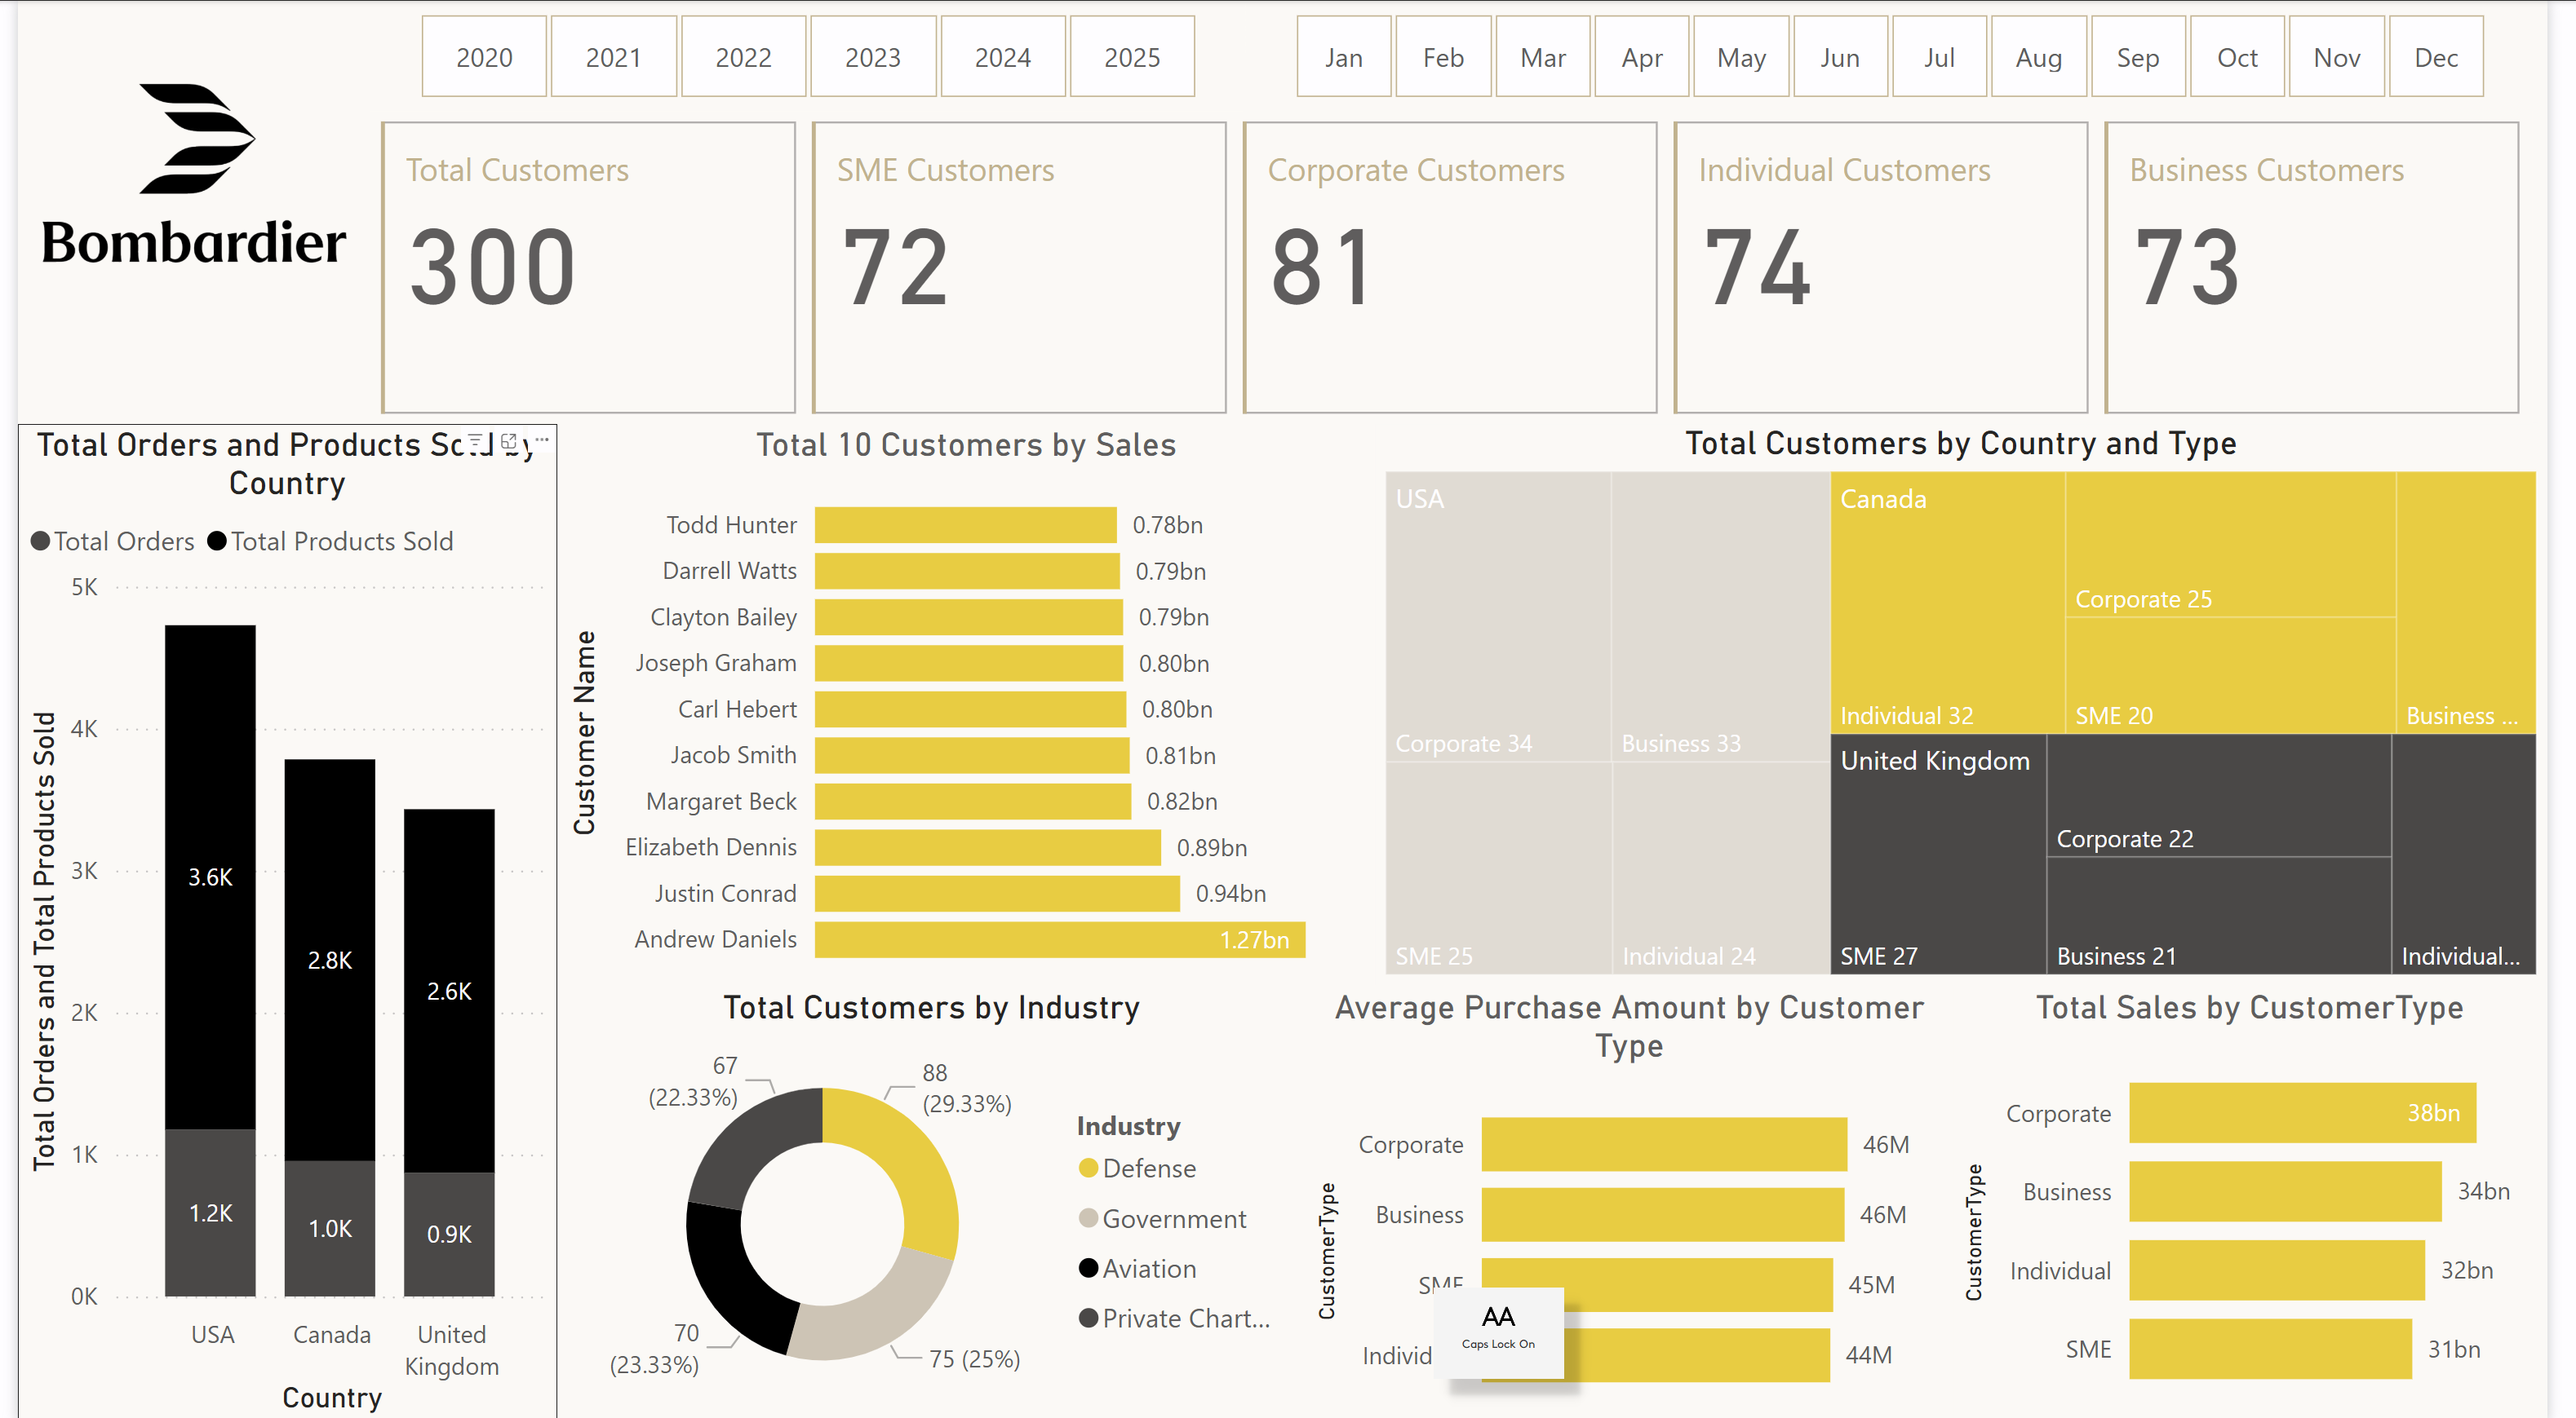
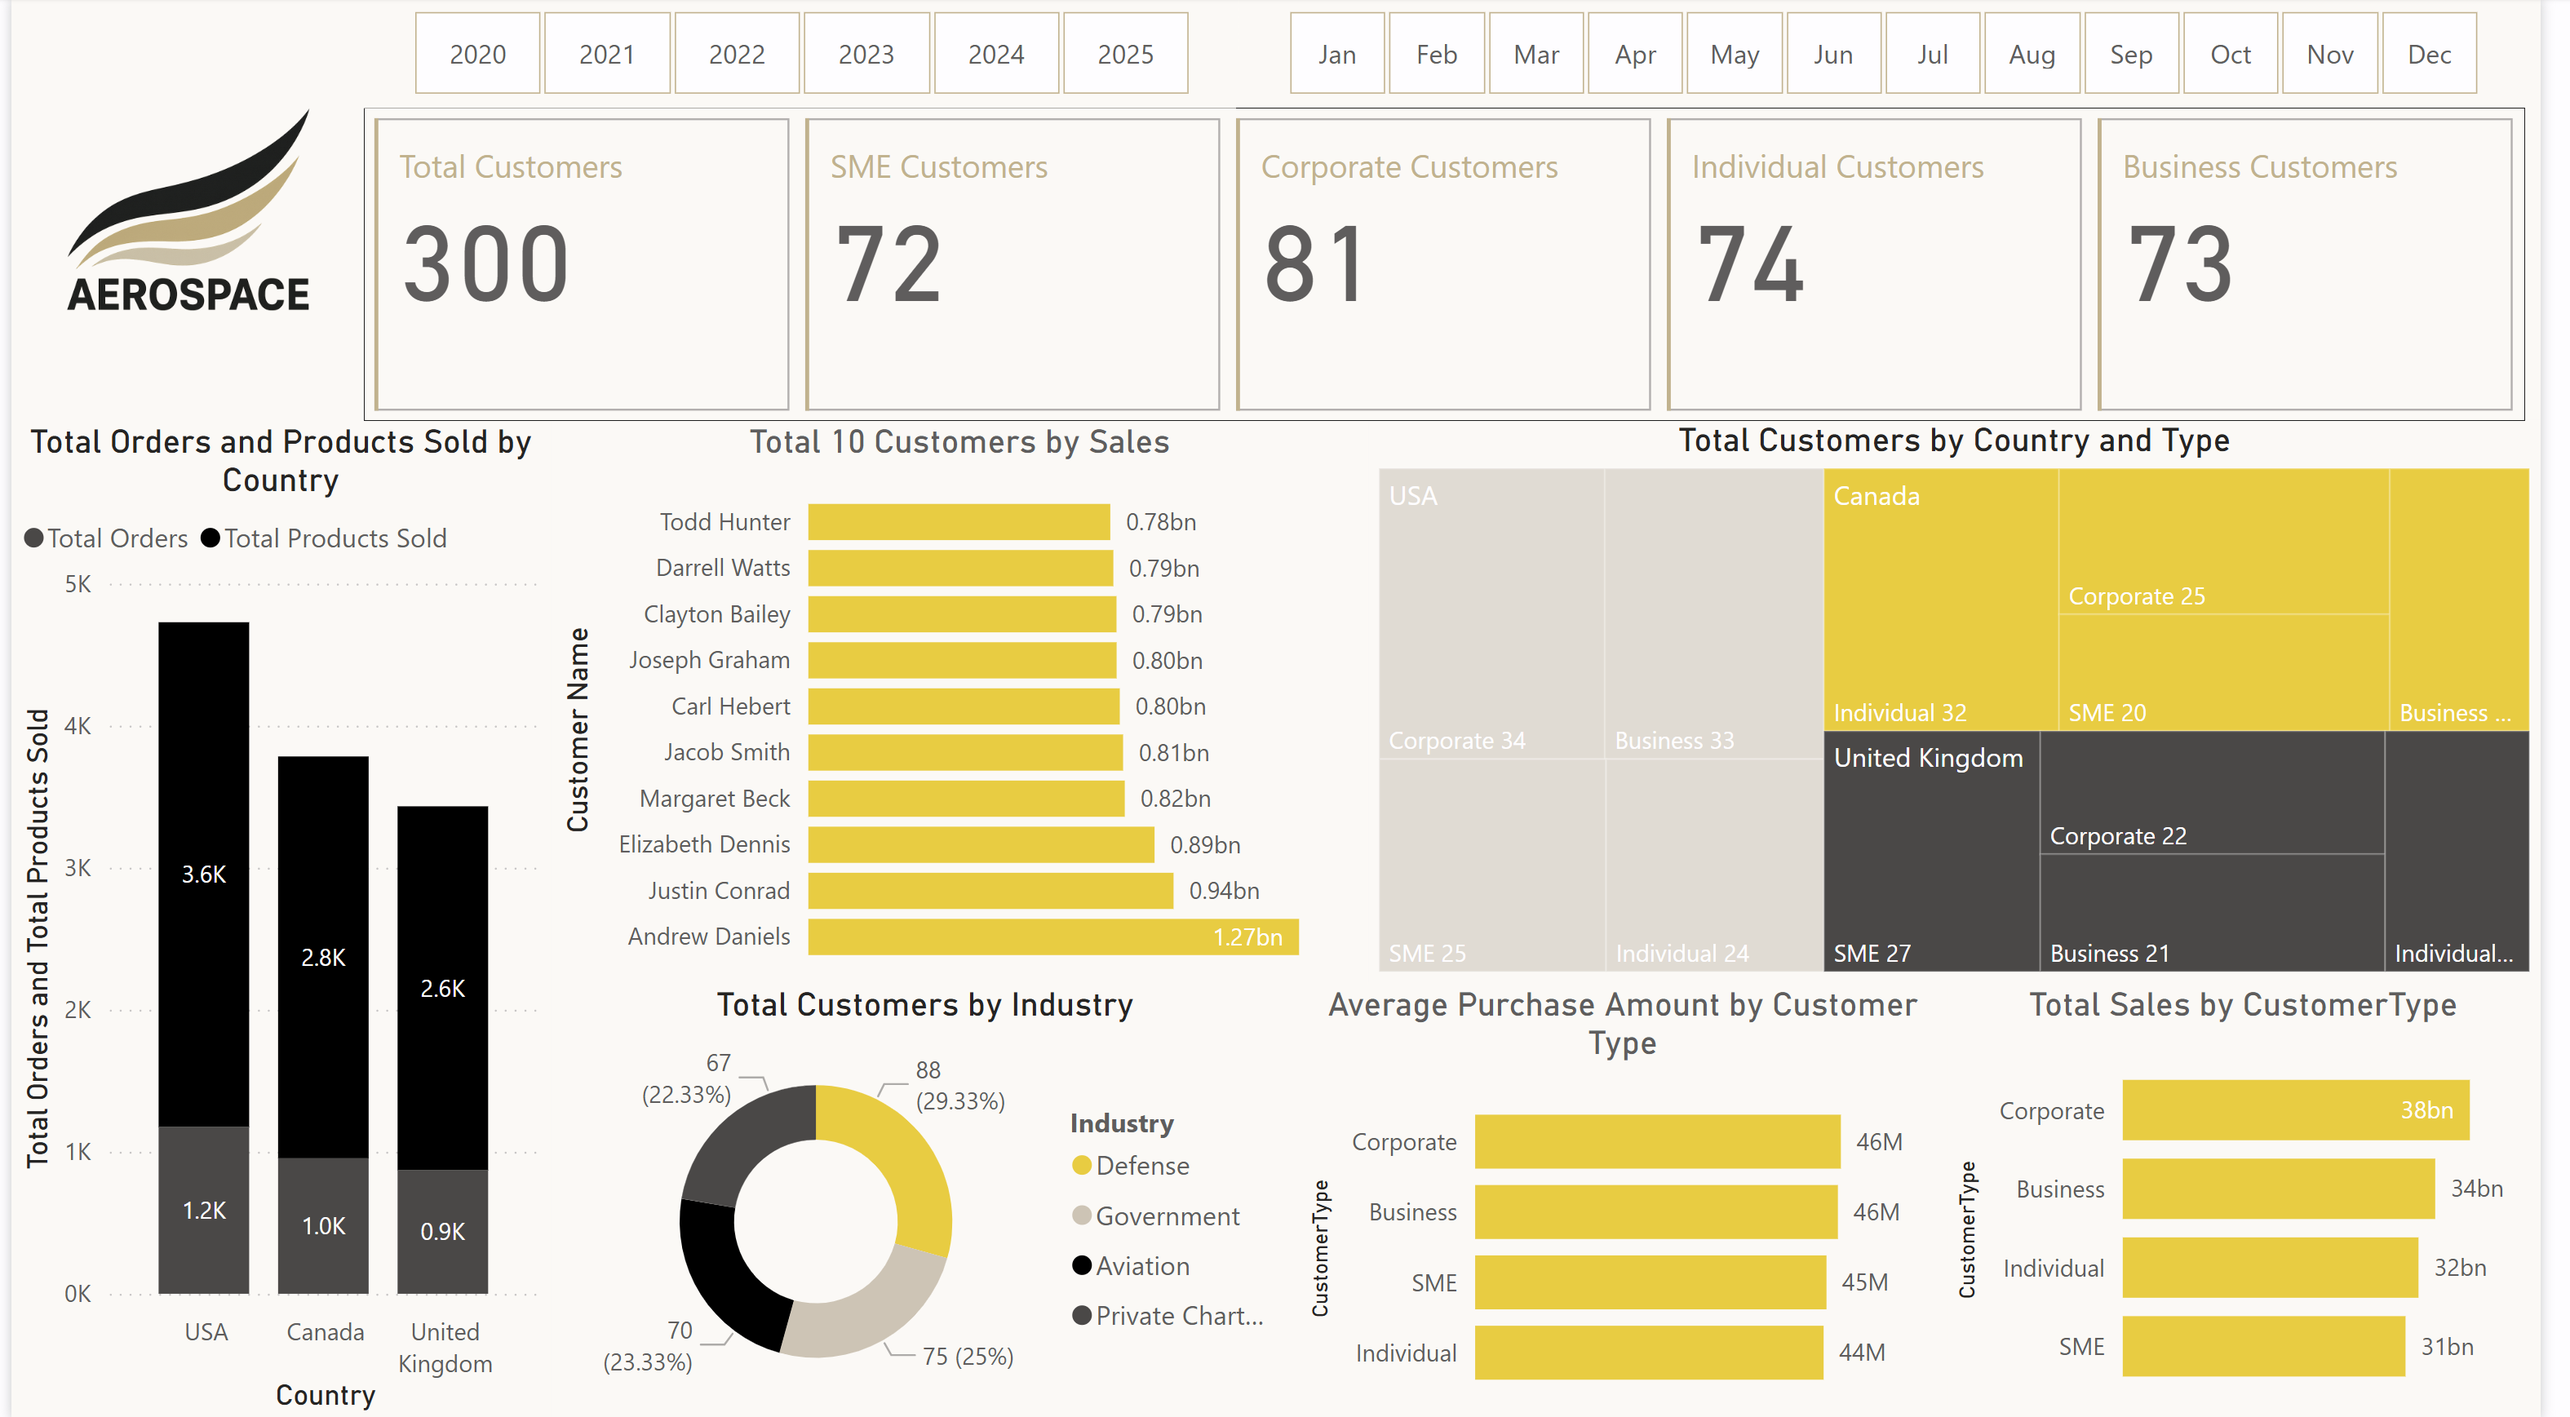
Initial commit: Addeed Corret Readme

diff --git a/README.md b/README.md
@@ -1,126 +1,129 @@
-# Enhanced and corrected README with user's real file and task names
-final_readme = """
-# 🛒 CSV to GCP Retail ETL Project
+🚀 Aerospace Power BI Dashboard (Fictitious Data)
 
-This project demonstrates a complete ETL pipeline built using Apache Airflow, Google Cloud Platform (GCP), dbt, and Soda Core. It ingests raw CSV data into Google Cloud Storage, loads it into BigQuery, transforms it into a star schema using dbt, and validates both raw and transformed data using Soda.
+This project showcases an interactive Power BI dashboard designed to visualize and analyze sales, customer, and product performance data for a fictitious aerospace company, Aerospace. It demonstrates advanced data modeling, transformation, and storytelling using Power BI, DAX, and Power Query.
 
----
+📁 Project Structure
 
-## 📌 Project Summary
+PowerBI-Aerospace-Project/
+├── screenshots/
+│   ├── dashboard_overview.png
+│   ├── Customer_Breakdown.png
+│   ├── data_model.png
+│   ├── Regional_Sales_Budget.png
+├── datasets/
+│   ├── aerospace_Budget_Finalized.xlsx
+│   ├── aerospace_Calendar_Finalized.xlsx
+│   ├── aerospace_Customers_Finalized.xlsx
+│   ├── aerospace_Products_Finalized.xlsx
+│   ├── aerospace_Sales_Finalized.xlsx
+├── aerospace_Insights_Fictional dataset.pptx
+├── README.md
+└── aerospace logo.png
 
-- **Project Title**: CSV to GCP Retail ETL Migration
-- **Tools Used**: Airflow, GCS, BigQuery, dbt, Soda Core, Docker, Astro CLI
-- **Pipeline**: Local CSV → GCS → BigQuery (raw) → dbt (transformation) → BigQuery (modeled) → Soda validation
+🧾 Overview
 
----
+Tool: Power BI Desktop
 
-## 🧠 What I Did
+Model: Star Schema
 
-- Set up a Dockerized Airflow environment using Astronomer runtime.
-- Created an Airflow DAG (`retail.py`) that:
-  - Uploads `Online_Retail.csv` and `country_data.csv` to GCS
-  - Loads the files into `raw_retail_data` and `raw_country_data` tables in BigQuery
-  - Runs Soda checks to validate raw schema and values
-  - Executes dbt transformations to create a star schema
-  - Performs data quality checks post-transformation
-- Designed dimension and fact tables in dbt: `customer_dimention_table`, `product_dimention_table`, `datetime_dimention_table`, `Retail_invoice_fact_table`
-- Used Soda Core to ensure high data integrity throughout
-- Prepared the system for integration with Metabase for future dashboarding
+Data Sources: Simulated datasets (Sales, Products, Customers, Budget, Calendar)
 
----
+Metrics: Revenue, Sales Trend, Customer Distribution, Budget vs Actuals, Top Products
 
-## 🔄 Pipeline Flow (Airflow DAG Overview)
 
-### 1. Upload to GCS
-- `Online_Retail.csv` → `raw/Online_Retail.csv`
-- `country_data.csv` → `raw/country_data.csv`
+📊 Dashboard Highlights
 
-### 2. Load to BigQuery
-- `raw/Online_Retail.csv` → `retail.raw_retail_data`
-- `raw/country_data.csv` → `retail.raw_country_data`
+🔹 Dashboard Overview
 
-### 3. Raw Data Quality Checks
-- Performed using `run_load_data_quality_checks()`
-- Checks schema, nulls, data types
+This is the main dashboard with global KPIs, filters by year, country, category, and an at-a-glance view of key performance indicators.
 
-### 4. Data Transformation via dbt
-- `customer_dimention_table.sql`: Builds customer_id and adds ISO codes
-- `product_dimention_table.sql`: Deduplicates and filters product data
-- `datetime_dimention_table.sql`: Extracts time parts from `InvoiceDate`
-- `Retail_invoice_fact_table.sql`: Combines all keys and computes invoice totals
+Total Products Sold, Orders, Sales, Revenue
 
-### 5. Post-Transformation Data Validation
-- Performed using `run_transform_data_quality_checks()`
-- Verifies uniqueness, null handling, and logical constraints
+Filters for Year, Month, Country, City
 
----
+KPI Cards and Donut Charts showing category, industry, and country breakdowns
 
-## 🛠 Tech Stack
 
-| Tool      | Purpose                                |
-|-----------|----------------------------------------|
-| Airflow   | Orchestrating ETL workflows            |
-| GCS       | Cloud-based raw data storage           |
-| BigQuery  | Scalable cloud data warehouse          |
-| dbt       | SQL-based data modeling                |
-| Soda Core | Data validation and quality monitoring |
-| Docker    | Local development environment          |
-| Astro CLI | Manages and deploys Airflow projects   |
+🔹 Sales Trend by Product Category
 
----
+A monthly trend line tracking performance for Aircraft and Services categories.
 
-## 📊 Data Models Overview
+Seasonal dips and spikes clearly visible
 
-### `customer_dimention_table`
-- Creates `customer_id` from `CustomerID + Country`
-- Adds country ISO from `raw_country_data`
+Useful for detecting underperforming months or budgeting misalignments
 
-### `product_dimention_table`
-- Unique `product_id` from `StockCode + Description + UnitPrice`
-- Filters for valid products only
 
-### `datetime_dimention_table`
-- Parses multiple `InvoiceDate` formats
-- Extracts year, month, day, hour, minute, weekday
+🔹 Total Sales by Product and Industry
 
-### `Retail_invoice_fact_table`
-- Joins all dimensions and computes invoice totals
-- Surrogate keys ensure consistency across joins
+This visual highlights how each product contributes to industry-wise revenue.
+
+Stack bar chart per industry (Defense, Government, Aviation, Private Charters)
+
+Products like Global 7500 and Annual Maintenance drive consistent revenue
+
+
+🧹 Data Cleaning & Transformation
+
+Performed in Power Query:
+
+Renamed columns for clarity and consistency
+
+Removed nulls and duplicates
+
+Formatted dates to match reporting standards
+
+Created custom columns for Month, Year, and Month_Short for grouping
+
+Ensured categorical fields (e.g., Product Category, Customer Type) were standardized for filtering
 
 ---
+🧩 Data Modeling (Star Schema)
+Fact Table: Sales
 
-## ✅ Soda Checks Summary
+Dimension Tables: Customers, Products, Calendar, Budget
 
-| Table                           | Check Types                                  |
-|---------------------------------|-----------------------------------------------|
-| `raw_retail_data`               | Schema validation, missing values, data types |
-| `customer_dimention_table`      | Uniqueness, null checks, schema integrity     |
-| `product_dimention_table`       | Non-negative pricing, duplicates              |
-| `datetime_dimention_table`      | Weekday ranges, null handling                 |
-| `Retail_invoice_fact_table`     | Positive total amounts, referential integrity |
----
+Relationships are 1-to-many (e.g., Customers → Sales)
+
+Time intelligence enabled via Calendar table
 
 
-# 🧪 How to Run
-# Start development environment
-- astro dev start
+🖼 Report Screenshots
 
-# Run Airflow task
-- airflow tasks test retail upload_retail_csv_to_gcs 2025-01-01
+You can add screenshots of your report visuals here to visually showcase your dashboard design and insights:
 
-# Run dbt models
-- source /usr/local/airflow/dbt_venv/bin/activate
-- cd include/dbt
-- dbt run --profiles-dir /usr/local/airflow/include/dbt/
-
-# Run Soda validation
-- source /usr/local/airflow/soda_venv/bin/activate
-- soda scan -d retail -c include/soda/configuration.yml include/soda/checks/*
+🔸 Report Page 1: Overview Dashboard
+![Dashboard Overview](screenshots/dashboard_overview.png)
 
 
-# 🎯 Final Outcome
-- ✅ Successfully ingested and modeled retail data from CSVs into BigQuery
-- ✅ Implemented a robust, reusable Airflow DAG for data orchestration
-- ✅ Built dimensional data models using dbt following best practices
-- ✅ Ensured high data quality using Soda Core validations
-- ✅ Created analytics-ready tables for future reporting and BI dashboards
+🔸 Report Page 2: Customer Breakdown
+![Customer Dashboard](screenshots/Customer_Breakdown.png)
+
+
+🔸 Report Page 3: Regional Sales & Budget
+![Regional Sales_&_Budget Dashboard](screenshots/Regional_Sales_Budget.png)
+
+
+🔸 Report Page 4: Data Model in Power BI
+![Data Model](screenshots/data_model.png)
+
+
+🧠 Insights & Findings
+
+- USA contributes the largest revenue share (~39.5%)
+
+- Corporate Customers dominate with ~38bn in sales
+
+- Top Products: Global 7500, Global 6500, and Pilot Training
+
+- Budget and actual sales show divergence in Q2 and Q3
+
+
+🛠 Tools & Techniques Used
+
+- Power BI Desktop: Report creation, modeling, and visualizations
+
+- Power Query (M): Data cleaning and prep
+
+- DAX: For calculated columns and KPIs (e.g., Average Order Value, Total Sales)
+
+- Bing Maps: For geospatial visuals (Sales by City)
